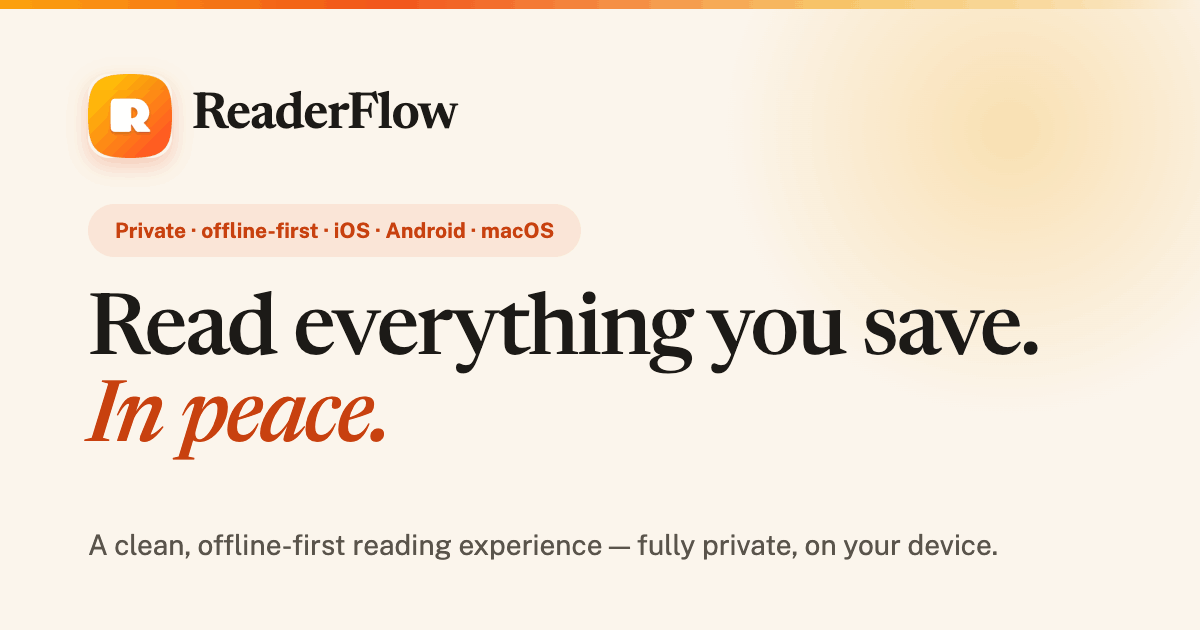
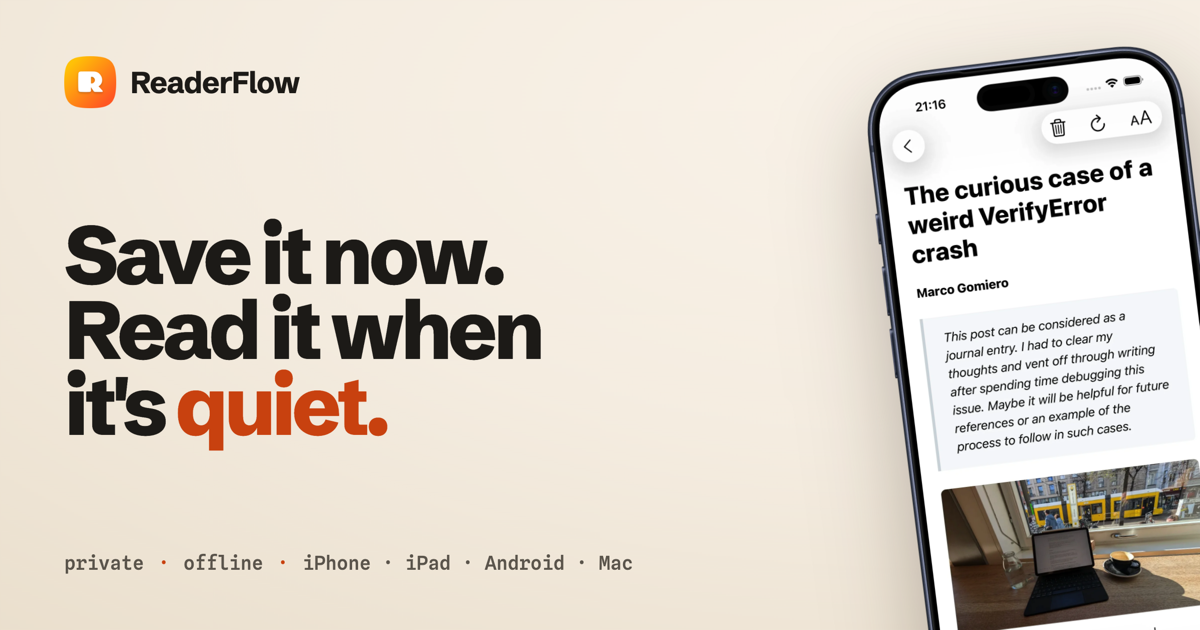
Regenerate the social card for the new design

diff --git a/docs/index.html b/docs/index.html
@@ -24,12 +24,12 @@
     <meta property="og:image" content="https://www.readerflow.app/social-share.png">
     <meta property="og:image:width" content="1200">
     <meta property="og:image:height" content="630">
-    <meta property="og:image:alt" content="ReaderFlow - A clean, offline-first reading experience">
+    <meta property="og:image:alt" content="ReaderFlow — save it now, read it when it's quiet">
     <meta name="twitter:card" content="summary_large_image">
     <meta name="twitter:title" content="ReaderFlow — Save and read articles offline">
     <meta name="twitter:description" content="A clean, offline-first reading experience, fully private and on your device.">
     <meta name="twitter:image" content="https://www.readerflow.app/social-share.png">
-    <meta name="twitter:image:alt" content="ReaderFlow - A clean, offline-first reading experience">
+    <meta name="twitter:image:alt" content="ReaderFlow — save it now, read it when it's quiet">
 
     <script type="application/ld+json">
       {
